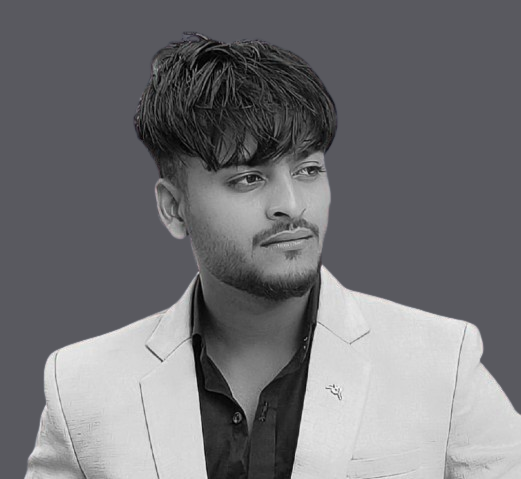
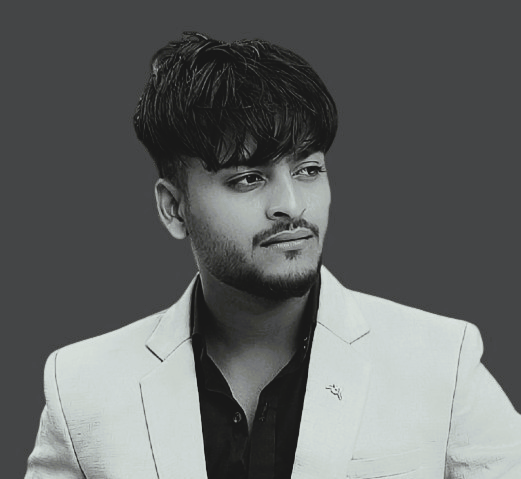
profile img changes

diff --git a/src/Home.jsx b/src/Home.jsx
@@ -1,5 +1,5 @@
 import React from "react";
-import profile from "./assets/Portfolio.jpeg";
+import profile from "./assets/Portfolio.png";
 import { motion } from "framer-motion";
 
 const iconVariants = {
@@ -129,7 +129,7 @@ const Home = () => {
         <img
           src={profile}
           alt="profile"
-          className="w-[300px] h-[300px] object-cover animate-profile"
+          className="w-[300px] h-[300px] object-cover animate-profile rotate-y-180"
         />
       </div>
 

diff --git a/src/About.jsx b/src/About.jsx
@@ -1,5 +1,5 @@
 import React from "react";
-import profile from "./assets/portfolio.jpeg";
+import profile from "./assets/portfolio.png";
 import resume from "./assets/true-CV.pdf"
 
 
